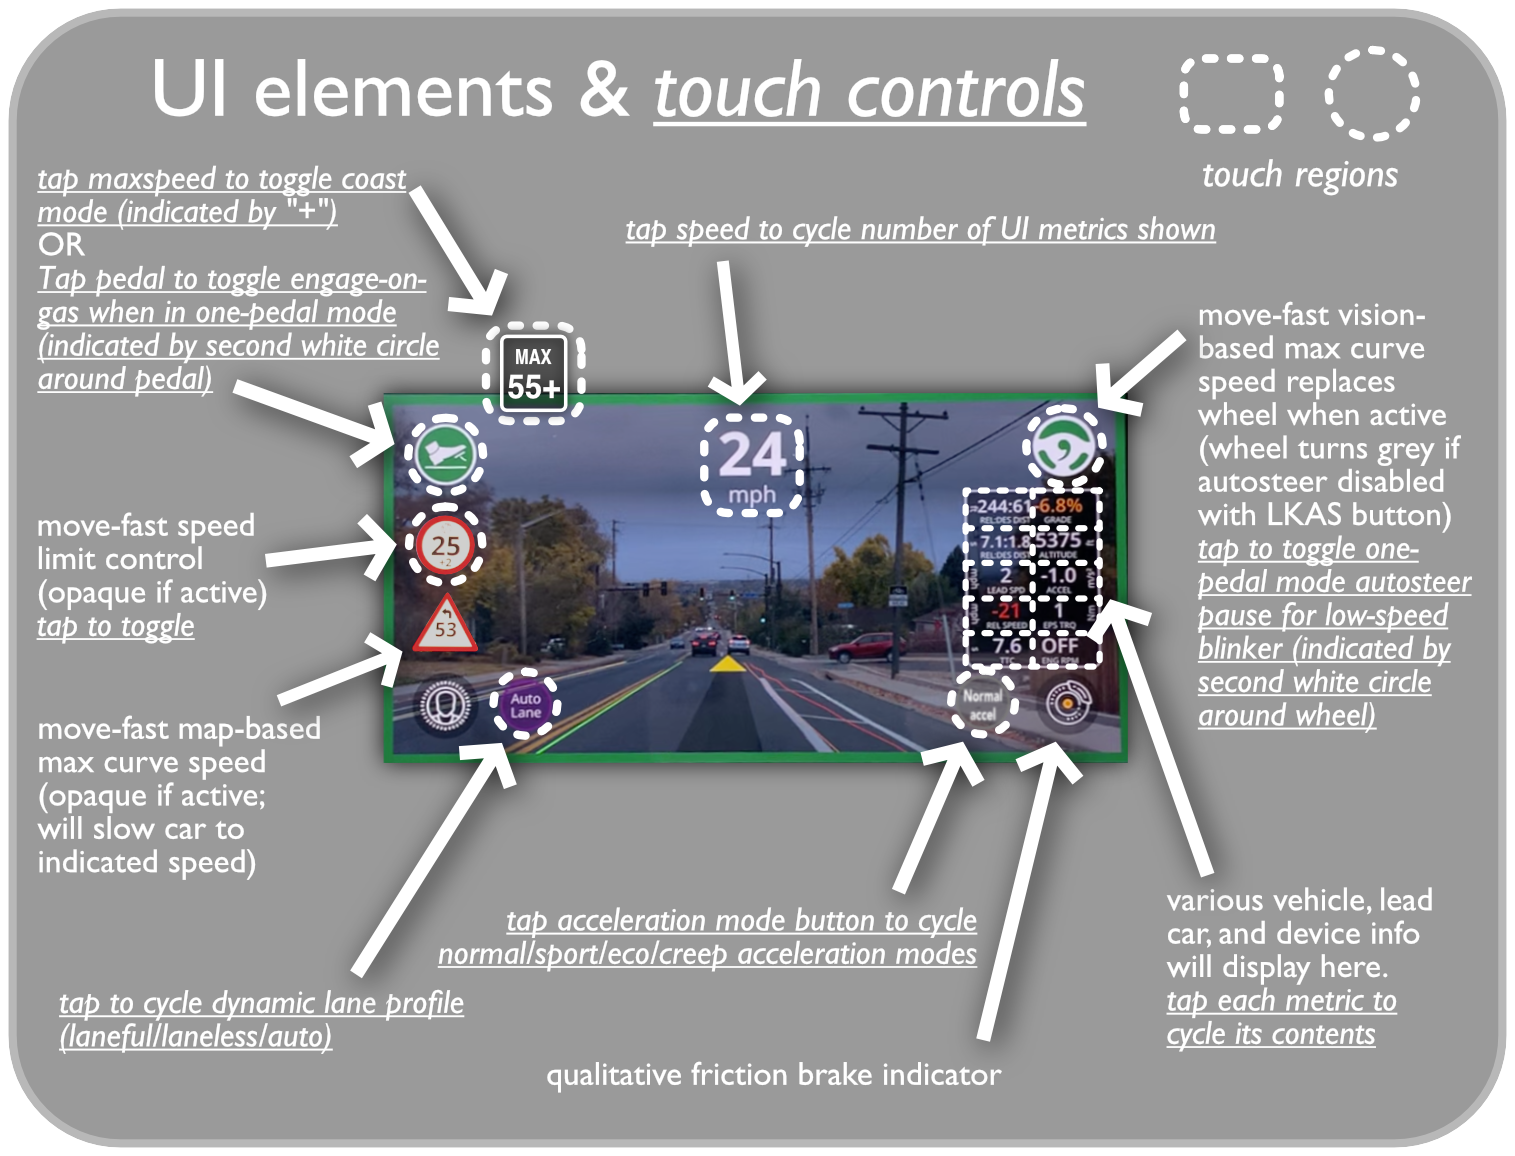
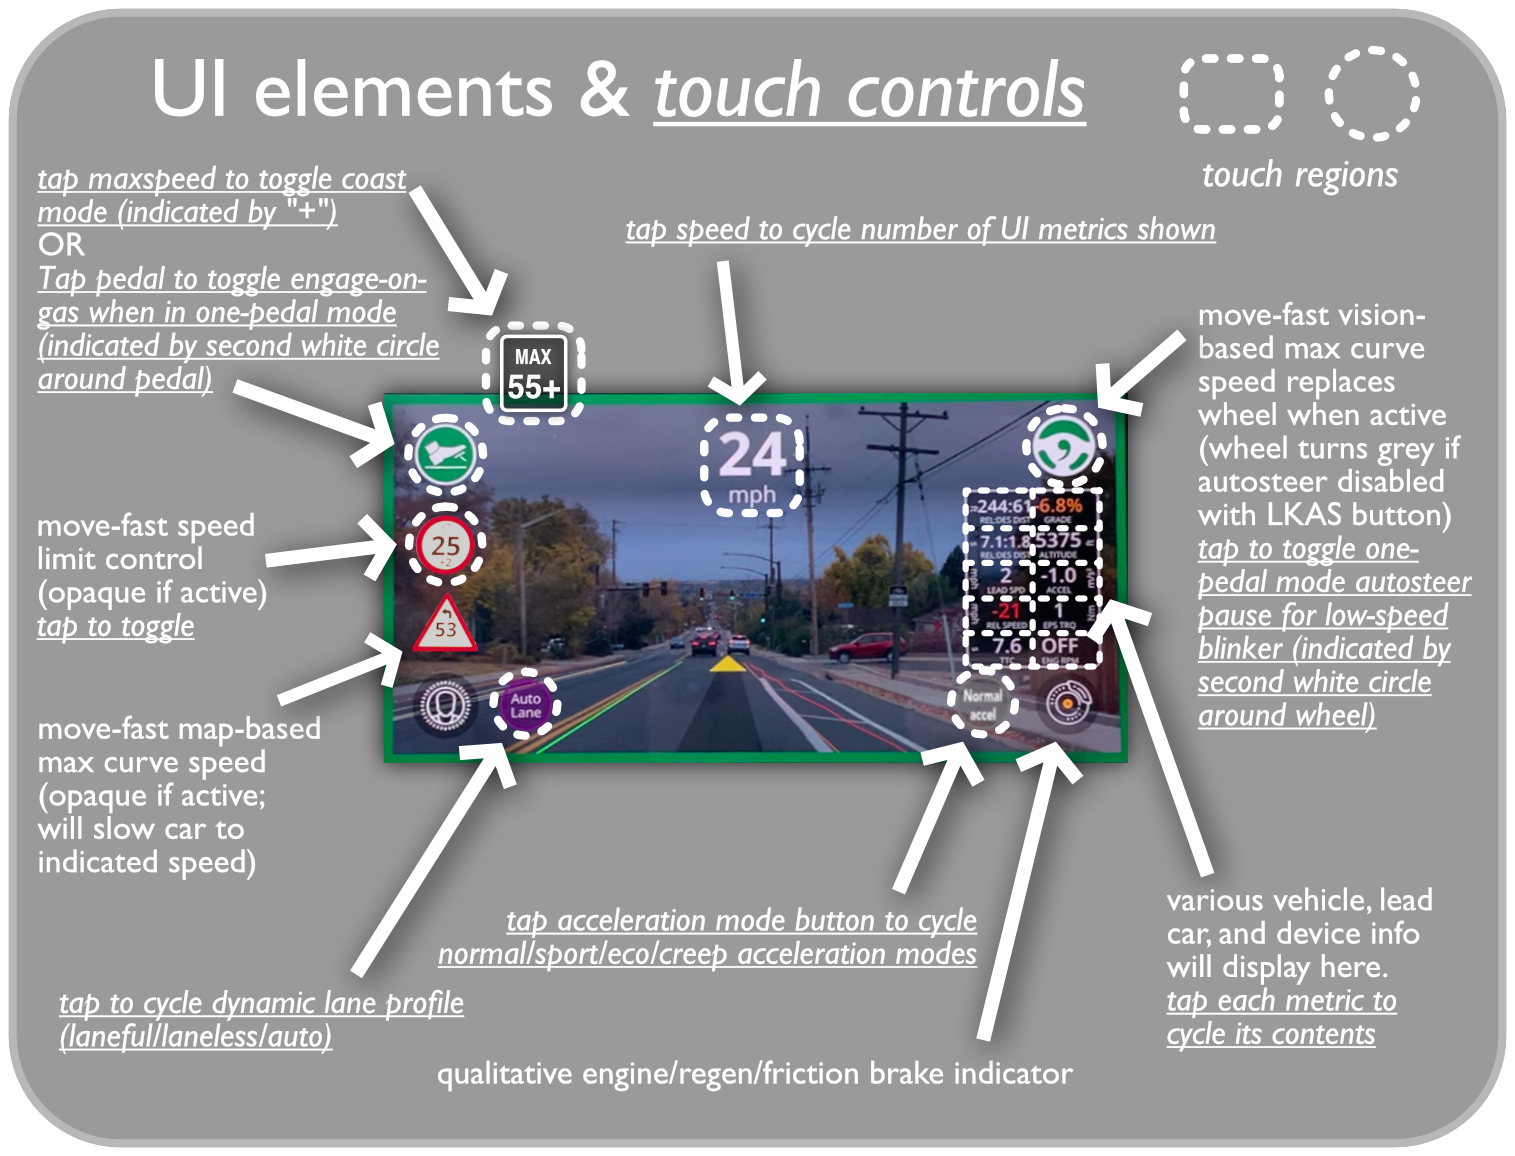
update readme releases infographics

diff --git a/README.md b/README.md
@@ -75,13 +75,15 @@
       * Combined with an Automation to run the shortcut when you enter CarPlay, or when you connect to your car's Bluetooth, this can be a pretty convenience setup.
     * Android users could try the [Hot Spot Starter](https://play.google.com/store/apps/details?id=de.thjunge11.autohotspot) app, but I can't recommend it as I haven't tried it, so maybe [look for something else if it doesn't work](https://forum.xda-developers.com/t/enable-hotspot-automatically-when-i-enter-the-car.3915107/)
 - [x] [✅] Coasting: OP will still brake behind a lead car and to slow down for curves, but will not apply engine/regen/friction brakes in order to keep the set speed (by user or map speed limit)
-    * Toggle coasting while driving by tapping the max speed indicator
+    * Toggle coasting while driving 
+      * in Volt using gear shifter: D for coasting, L for regen (thanks to jshuler for discovering the CAN message of extra gear shifter values)
+      * in other cars by tapping the max speed indicator
     * A "+" after the max speed indicates that coasting is enabled
     * *Can be a bit rough on the brakes when following downhill over set speed; recommend to disable if uncomfortable when constantly following downhill*
     * (Inspired by the implementation in sunnyhaibin's fork)
 - [x] [✅] Brake when 15% over set speed when coasting enabled
 - [x] [✅] Nudgeless lane change: OP will start lane change automatically in direction of blinker after blinker on for 3s
-- [x] [✅] Friction braking indicator
+- [x] [✅] Braking indicator shows level of regenerative/engine and friction braking
 - [x] **Customizable, dynamic vehicle/device metrics** (adapted from kegman)
     * To use:
         * Tap the current speed on the openpilot display to cycle the number of metrics
@@ -103,6 +105,7 @@
       * *Press and hold*: apply temporary hard braking (indicated by follow level 3 on vehicle cluster and red one-pedal icon) (Chevy's the ones that decided a brake paddle on the steering wheel was a good idea; not me)
       * *Press when friction braking disabled*: activate friction braking
       * *Double-press when stopped or when gas is pressed and friction braking is active*: deactivate friction braking
+    * [Volt] Coasting: using gear shifter, select D for coasting or L for regen (thanks to jshuler)
     * When one-pedal mode active and blinker is on below 20mph, autosteer will automatically pause
       * [Optional; tap wheel icon to toggle while in one-pedal mode]
       * A second white circle around the wheel icon indicates autosteer pause is enabled

diff --git a/RELEASES.md b/RELEASES.md
@@ -1,3 +1,12 @@
+Version tw-0.8.9-3.9 (2022-02-01)
+========================
+ * NEW: [Volt] control coasting for cruise and one-pedal mode using D and L mode with the gear shifter
+   * Coasts in D, regen in L
+   * Thanks to Jason Shuler
+ * NEW: Display vehicle fingerprint on startup
+ * IMPROVED: Brake indicator now shows regen/engine braking while cruising, or regen while in one-pedal regen mode
+ * FIXED: [Volt] Prevent misprinting as Escalade ESV
+
 Version tw-0.8.9-3.8 (2022-01-24)
 ========================
  * FIXED: Now works with rev2 (shipped "with" 0.8.11) Comma Three units (sensor error resolved)
